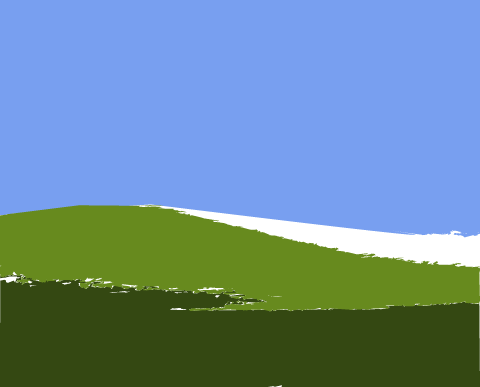
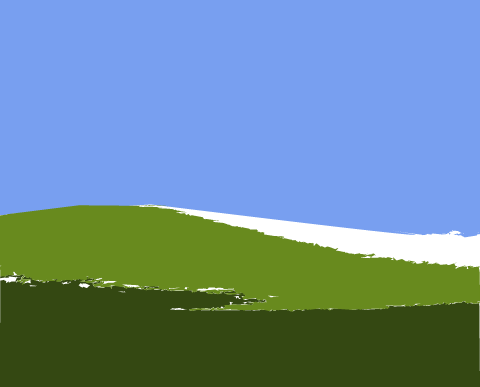
fix(search): grow cubic slop until command count stalls
After the polyline is fixed, emit again with looser
cubic fit and keep the shorter path. Stop when a
pass does not drop commands.

diff --git a/internal/search/simplify.go b/internal/search/simplify.go
@@ -370,6 +370,15 @@ func simpPath(b simpBlob, w, h int) (svg.Node, bool) {
 		}
 	}
 	cmds := simpEmit(best)
+	for div := 20.0; div >= 8; div -= 4 {
+		cubicDiv = div
+		trial := simpEmit(best)
+		if len(trial) == 0 || len(trial) >= len(cmds) {
+			break
+		}
+		cmds = trial
+	}
+	cubicDiv = 25
 	for n := 2.0; len(cmds) > 4096 && n <= 64; n *= 2 {
 		for i := range best {
 			best[i] = simpRDPClosed(best[i], n)
@@ -1153,12 +1162,14 @@ func simpSpanSmooth(run [][2]float64) bool {
 	return true
 }
 
+var cubicDiv = 25.0
+
 func fitCubicEps(pts [][2]float64) float64 {
 	if len(pts) < 2 {
 		return 4
 	}
 	a, b := pts[0], pts[len(pts)-1]
-	return 4 + math.Hypot(b[0]-a[0], b[1]-a[1])/25
+	return 4 + math.Hypot(b[0]-a[0], b[1]-a[1])/cubicDiv
 }
 
 func fitCubic(pts [][2]float64, eps float64) (bool, [2]float64, [2]float64) {

diff --git a/SPEC.md b/SPEC.md
@@ -878,7 +878,7 @@ func (s Simplify) Search(ctx context.Context, target *image.NRGBA) (svg.Document
 
 A new adapter is one file plus `init { Register("name", ...) }`. Do not add `cmd/primpreview` or `hack_preview.go`.
 
-Search has autonomy over palette, Loss, and mutate. The CLI does not inject a ColorMap or a color count. `--search` selects the registry name. Default `dumb`. `simplify` grows the palette: `palette.Auto(k)` for k=1,2,… and keeps the last k whose painted islands lower Fit. Stops after two k in a row that do not. Then peel a layer when Fit improves. Fill is the mean of the island’s PNG pixels. Sharp turns with legs ≥4px stay. Tiny ears may shave a 1px stair; longer ears stay pixel-exact so bays survive. RDP then runs per span. Smooth spans emit one cubic.
+Search has autonomy over palette, Loss, and mutate. The CLI does not inject a ColorMap or a color count. `--search` selects the registry name. Default `dumb`. `simplify` grows the palette: `palette.Auto(k)` for k=1,2,… and keeps the last k whose painted islands lower Fit. Stops after two k in a row that do not. Then peel a layer when Fit improves. Fill is the mean of the island’s PNG pixels. Sharp turns with legs ≥4px stay. Tiny ears may shave a 1px stair; longer ears stay pixel-exact so bays survive. RDP then runs per span. Cubic slop grows until the command count stalls.
 
 ```
 svgolf vectorize in.png -o out.svg --search NAME
